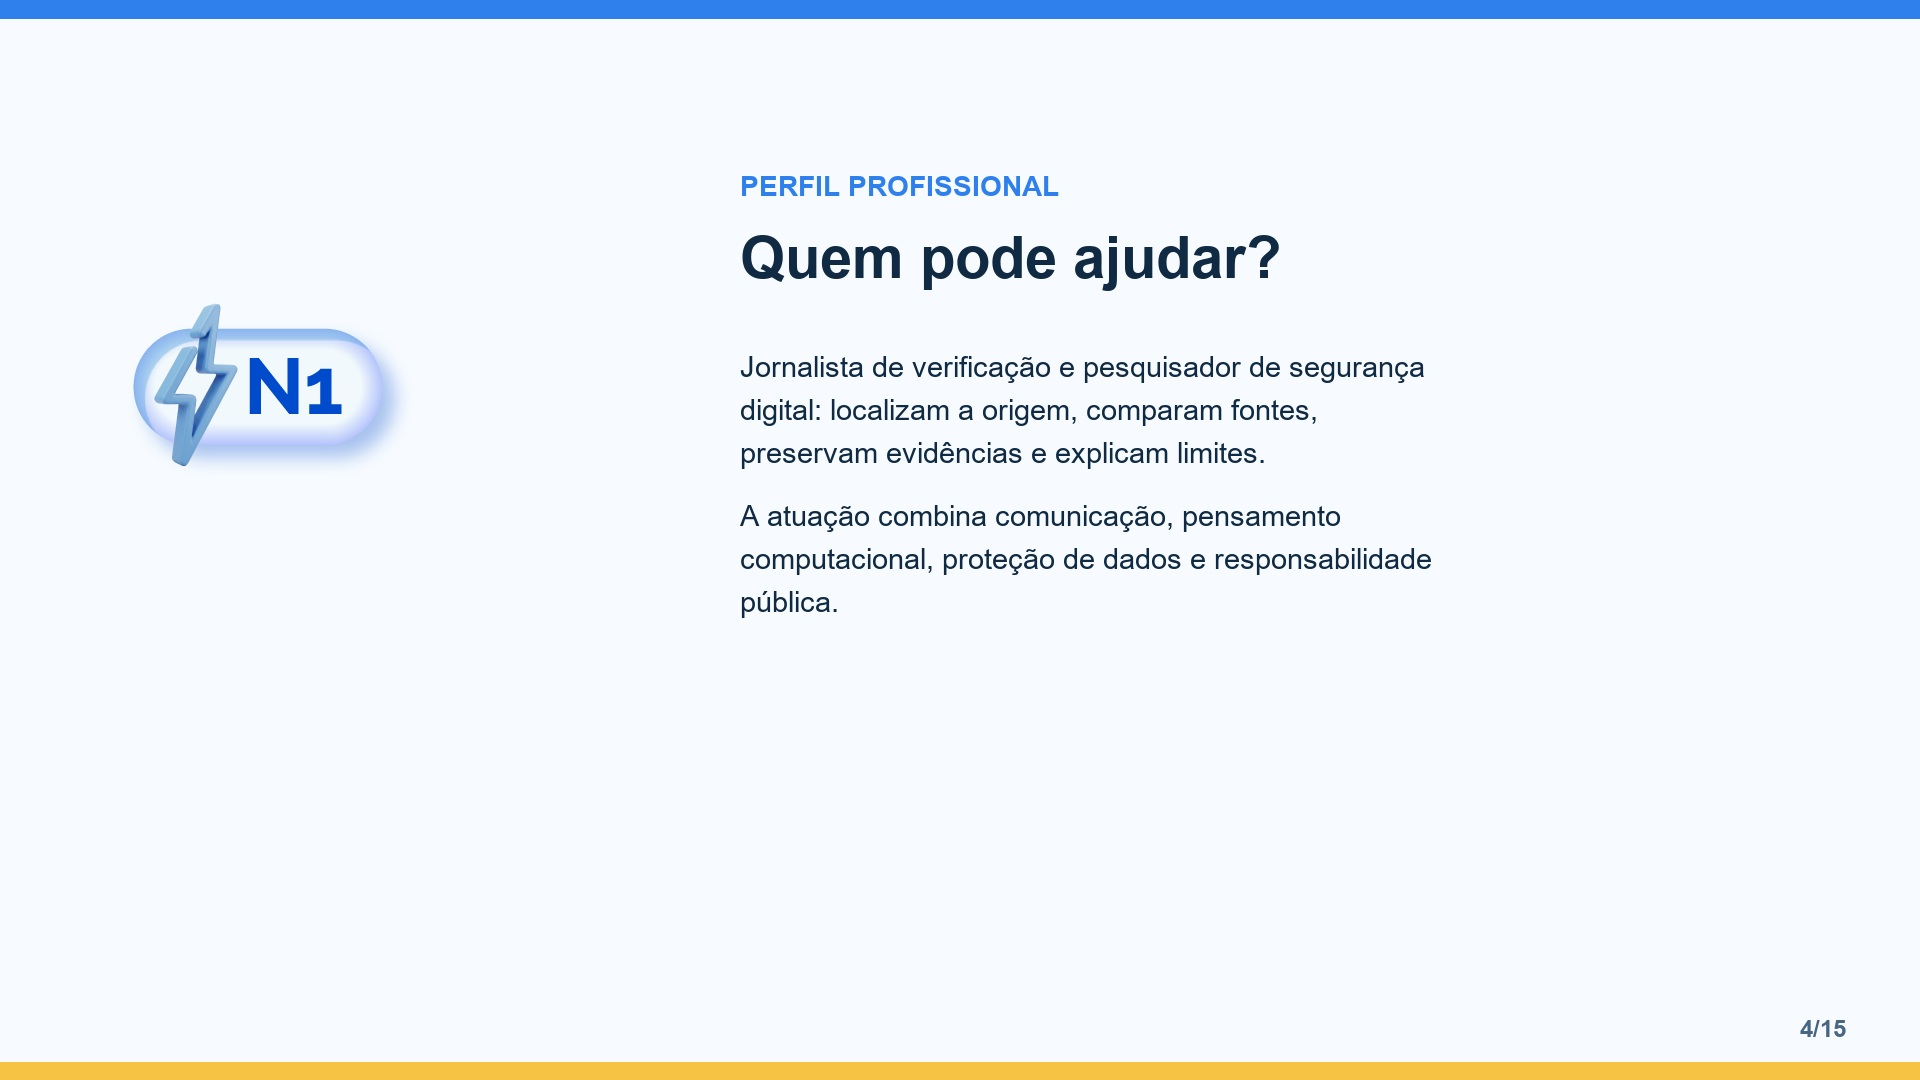
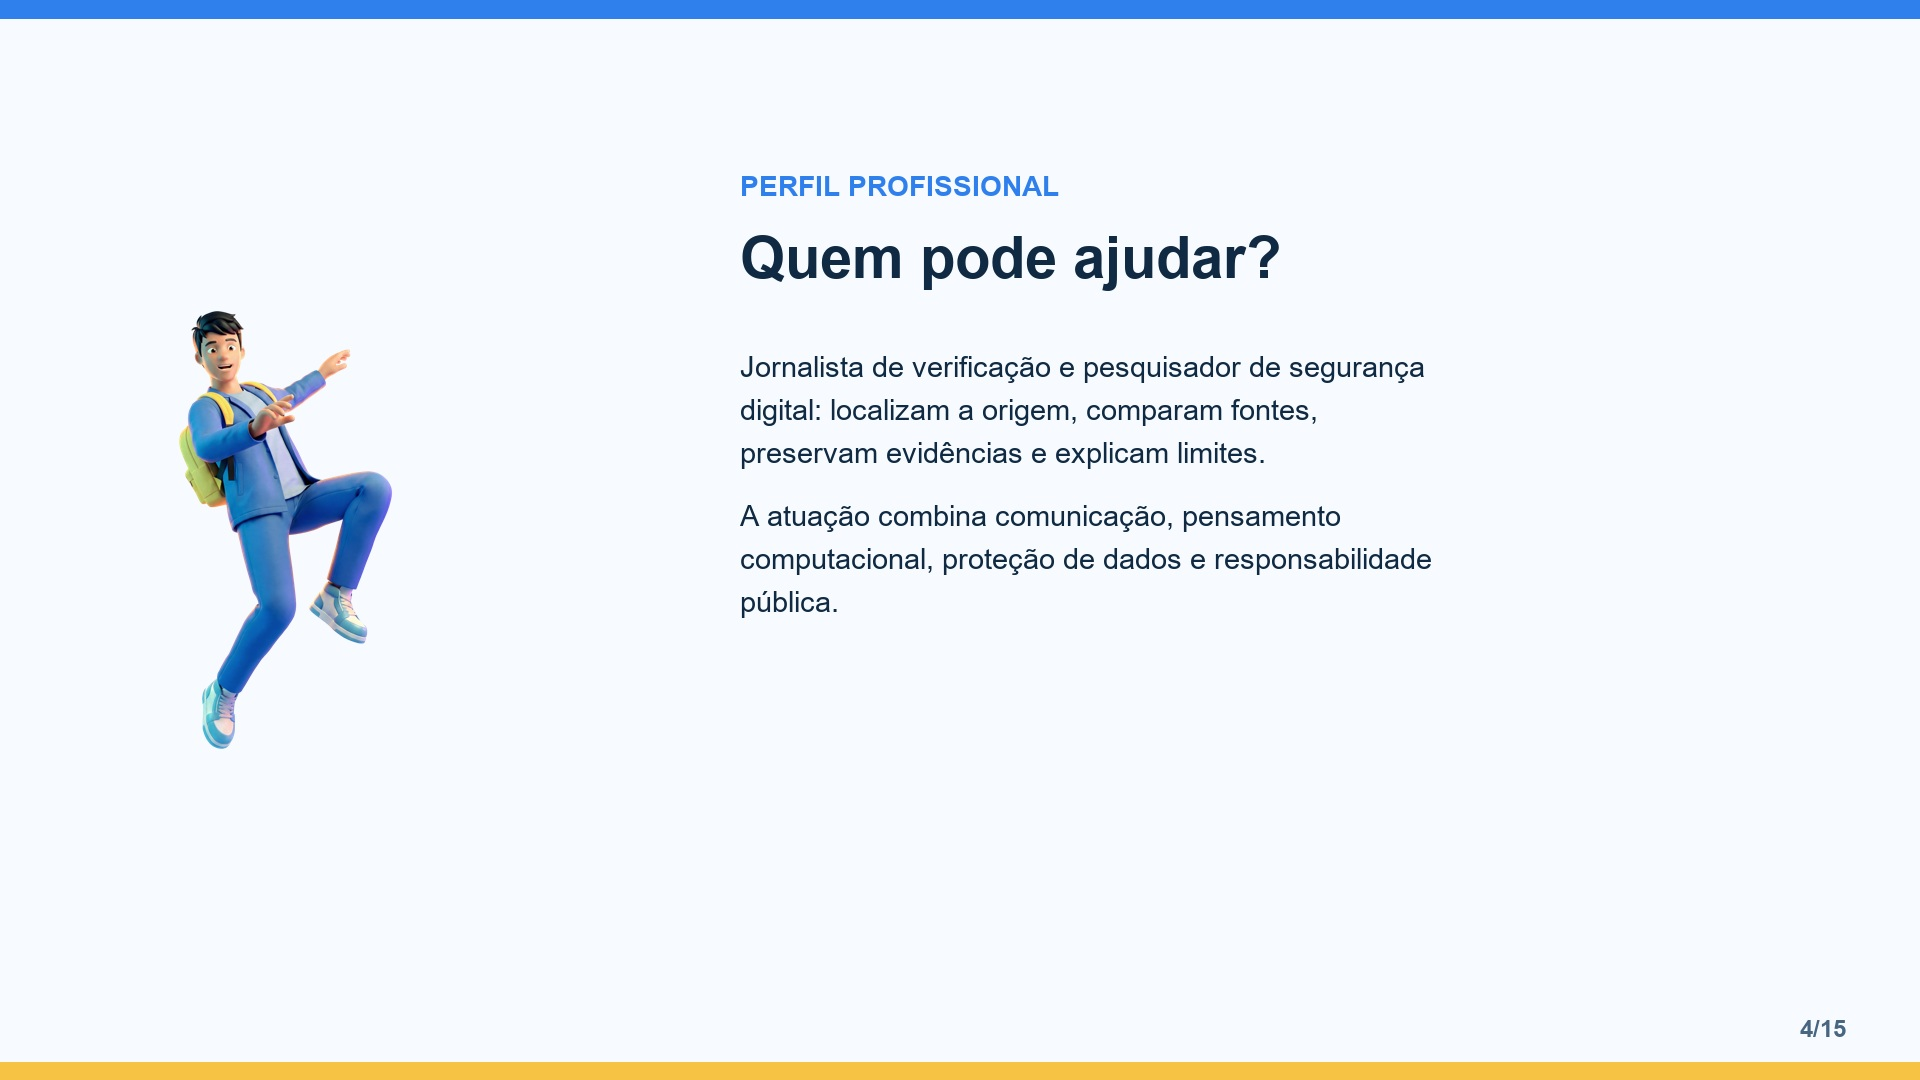
refactor: substituir molduras por ilustracoes do template

Changed region(s): [[0.0625, 0.275, 0.2188, 0.7028]]

diff --git a/scripts/generate_n3_jpgs.py b/scripts/generate_n3_jpgs.py
@@ -6,19 +6,19 @@ F='/Windows/Fonts/arial.ttf'; B='/Windows/Fonts/arialbd.ttf'; font=lambda n,b=Fa
 S=[
 ('CAPA','Deepfake em publicidade',['Maratona Tech 2026 · Nível 3 · Exemplo docente','Caso brasileiro: uso não autorizado de imagem e voz sintética atribuído a Marcos Palmeira.'],'template-capa-002.png'),
 ('PROBLEMA DIGITAL','Qual é o problema?',['Publicidade digital pode simular o endosso de uma pessoa real usando IA.','O caso circulou no Instagram e promovia um kit de ferramentas.','Relevância: imagem, voz, confiança e possível pagamento são envolvidos.'],'template-problema-001.png'),
-('ARTEFATO DIGITAL','O conteúdo analisado',['Reconstituição esquemática baseada na reportagem: vídeo com imagem prévia do ator + voz sintética + oferta comercial.','A reportagem da CNN Brasil é a evidência disponível; o arquivo original do anúncio não foi recuperado.','Não é possível afirmar hash, metadados, autoria ou perícia quadro a quadro.'],'template-artefato-001.png'),
-('PERFIL PROFISSIONAL','Quem pode ajudar?',['Jornalista de verificação e pesquisador de segurança digital: localizam a origem, comparam fontes, preservam evidências e explicam limites.','A atuação combina comunicação, pensamento computacional, proteção de dados e responsabilidade pública.'],'template-icones-ilustracoes-003.png'),
-('RELATÓRIO TÉCNICO · 1','Descrição do problema digital',['O ator afirmou à CNN Brasil que sua imagem foi usada sem autorização em um golpe publicitário com IA.','Onde: perfil no Instagram. Quem foi impactado primeiro: o titular da imagem e usuários expostos ao anúncio.','Fonte: CNN Brasil, 08 jun. 2024.'],'template-problema-002.png'),
-('RELATÓRIO TÉCNICO · 2','Identificação da causa-raiz',['Causa-raiz provável: combinação de mídia sintética, identidade pública reutilizável, distribuição algorítmica e incentivo econômico ao clique.','Fatores do modelo N3: uso indevido de IA, busca por engajamento, falta de verificação e desinformação intencional.','Autoria do golpe permanece hipótese.'],'template-icones-ilustracoes-002.png'),
-('RELATÓRIO TÉCNICO · 3','Diagnóstico dos riscos sociais',['Informacional: fala inexistente parece autêntica.','Econômico: usuário pode pagar ou fornecer dados.','Emocional: confiança e urgência reduzem a checagem.','Coletivo: enfraquece a confiança em imagens e vozes como evidência.'],'template-problema-003.png'),
-('RELATÓRIO TÉCNICO · 4','Fundamentação da análise',['Dados pessoais: imagem e voz identificáveis.','Conceitos: deepfake, alteração intencional, algoritmo, rastro digital e desinformação ampliada.','Base: Mirsky e Lee (2021); Vaccari e Chadwick (2020); Rößler et al. (2019); LGPD (Brasil, 2018).'],'template-icones-ilustracoes-004.png'),
-('RELATÓRIO TÉCNICO · 5','Recomendações públicas',['Usuário: não pagar nem informar dados; confirmar em canal oficial; guardar URL e denunciar.','Escola: ensinar triangulação, cadeia de evidências e proteção da imagem/voz.','Plataforma: revisar anúncios, preservar evidências, rotular mídia sintética e responder às denúncias.'],'template-campanha-001.png'),
-('CAMPANHA · 1','Público e linguagem',['Público: estudantes, famílias e comunidade escolar.','Linguagem: direta, não sensacionalista, visual e acessível.','Mensagem central: rosto conhecido não é prova de autorização.'],'template-capa-001.png'),
-('CAMPANHA · 2','Explicação técnica simplificada',['Deepfake é conteúdo audiovisual alterado ou criado com IA para parecer que uma pessoa disse ou fez algo.','No caso, a aparência de fala foi associada a uma oferta comercial que o ator declarou não ter autorizado.'],'template-artefato-001.png'),
+('ARTEFATO DIGITAL','O conteúdo analisado',['Reconstituição esquemática baseada na reportagem: vídeo com imagem prévia do ator + voz sintética + oferta comercial.','A reportagem da CNN Brasil é a evidência disponível; o arquivo original do anúncio não foi recuperado.','Não é possível afirmar hash, metadados, autoria ou perícia quadro a quadro.'],'template-icones-ilustracoes-008.png'),
+('PERFIL PROFISSIONAL','Quem pode ajudar?',['Jornalista de verificação e pesquisador de segurança digital: localizam a origem, comparam fontes, preservam evidências e explicam limites.','A atuação combina comunicação, pensamento computacional, proteção de dados e responsabilidade pública.'],'template-icones-ilustracoes-007.png'),
+('RELATÓRIO TÉCNICO · 1','Descrição do problema digital',['O ator afirmou à CNN Brasil que sua imagem foi usada sem autorização em um golpe publicitário com IA.','Onde: perfil no Instagram. Quem foi impactado primeiro: o titular da imagem e usuários expostos ao anúncio.','Fonte: CNN Brasil, 08 jun. 2024.'],'template-icones-ilustracoes-018.png'),
+('RELATÓRIO TÉCNICO · 2','Identificação da causa-raiz',['Causa-raiz provável: combinação de mídia sintética, identidade pública reutilizável, distribuição algorítmica e incentivo econômico ao clique.','Fatores do modelo N3: uso indevido de IA, busca por engajamento, falta de verificação e desinformação intencional.','Autoria do golpe permanece hipótese.'],'template-icones-ilustracoes-026.png'),
+('RELATÓRIO TÉCNICO · 3','Diagnóstico dos riscos sociais',['Informacional: fala inexistente parece autêntica.','Econômico: usuário pode pagar ou fornecer dados.','Emocional: confiança e urgência reduzem a checagem.','Coletivo: enfraquece a confiança em imagens e vozes como evidência.'],'template-icones-ilustracoes-049.png'),
+('RELATÓRIO TÉCNICO · 4','Fundamentação da análise',['Dados pessoais: imagem e voz identificáveis.','Conceitos: deepfake, alteração intencional, algoritmo, rastro digital e desinformação ampliada.','Base: Mirsky e Lee (2021); Vaccari e Chadwick (2020); Rößler et al. (2019); LGPD (Brasil, 2018).'],'template-icones-ilustracoes-075.png'),
+('RELATÓRIO TÉCNICO · 5','Recomendações públicas',['Usuário: não pagar nem informar dados; confirmar em canal oficial; guardar URL e denunciar.','Escola: ensinar triangulação, cadeia de evidências e proteção da imagem/voz.','Plataforma: revisar anúncios, preservar evidências, rotular mídia sintética e responder às denúncias.'],'template-icones-ilustracoes-040.png'),
+('CAMPANHA · 1','Público e linguagem',['Público: estudantes, famílias e comunidade escolar.','Linguagem: direta, não sensacionalista, visual e acessível.','Mensagem central: rosto conhecido não é prova de autorização.'],'template-icones-ilustracoes-100.png'),
+('CAMPANHA · 2','Explicação técnica simplificada',['Deepfake é conteúdo audiovisual alterado ou criado com IA para parecer que uma pessoa disse ou fez algo.','No caso, a aparência de fala foi associada a uma oferta comercial que o ator declarou não ter autorizado.'],'template-icones-ilustracoes-008.png'),
 ('CAMPANHA · 3','Impactos destacados',['Fraude econômica, coleta indevida de dados, desinformação e perda de confiança.','A campanha orienta sem culpar vítimas e sem expor dados pessoais.'],'template-problema-001.png'),
-('CAMPANHA · 4','Peça visual da campanha',['PARE · CONFIRME · DENUNCIE','1. Pause antes de clicar. 2. Confirme no canal oficial. 3. Não forneça dados. 4. Denuncie e preserve o link.','Arte visual criada para este exemplo docente; não é anúncio real.'],'template-campanha-001.png'),
+('CAMPANHA · 4','Peça visual da campanha',['PARE · CONFIRME · DENUNCIE','1. Pause antes de clicar. 2. Confirme no canal oficial. 3. Não forneça dados. 4. Denuncie e preserve o link.','Arte visual criada para este exemplo docente; não é anúncio real.'],'template-icones-ilustracoes-040.png'),
 ('CONCLUSÃO','Aprendizados principais',['Fato, evidência, inferência e hipótese precisam ser separados.','Imagem e voz podem ser reutilizadas para fabricar autoridade.','A resposta mais segura é confirmação independente antes de compartilhar ou pagar.'],'template-capa-002.png'),
-('REFERÊNCIAS','Fontes utilizadas',['CNN BRASIL (2024). Marcos Palmeira: rosto do ator é usado com IA em golpe no Instagram.','MIRSKY; LEE (2021). The creation and detection of deepfakes. ACM Computing Surveys.','VACCARI; CHADWICK (2020). Deepfakes and disinformation. Social Media + Society.','BRASIL (2018). Lei Geral de Proteção de Dados. Lista completa: docs/fichamento-caso.md.'],'template-icones-ilustracoes-005.png')]
+('REFERÊNCIAS','Fontes utilizadas',['CNN BRASIL (2024). Marcos Palmeira: rosto do ator é usado com IA em golpe no Instagram.','MIRSKY; LEE (2021). The creation and detection of deepfakes. ACM Computing Surveys.','VACCARI; CHADWICK (2020). Deepfakes and disinformation. Social Media + Society.','BRASIL (2018). Lei Geral de Proteção de Dados. Lista completa: docs/fichamento-caso.md.'],'template-icones-ilustracoes-107.png')]
 for i,(k,t,ps,img) in enumerate(S,1):
  im=Image.new('RGB',(1920,1080),(247,251,255));d=ImageDraw.Draw(im);d.rectangle((0,0,1920,18),fill=(47,128,237));d.rectangle((0,1062,1920,1080),fill=(246,195,68));a=Image.open(A/img).convert('RGBA');a.thumbnail((500,500));im.paste(a,(110,280),a);d.text((740,170),k,font=font(28,1),fill=(47,128,237));d.text((740,225),t,font=font(58,1),fill=(16,42,67));y=350
  for p in ps:
